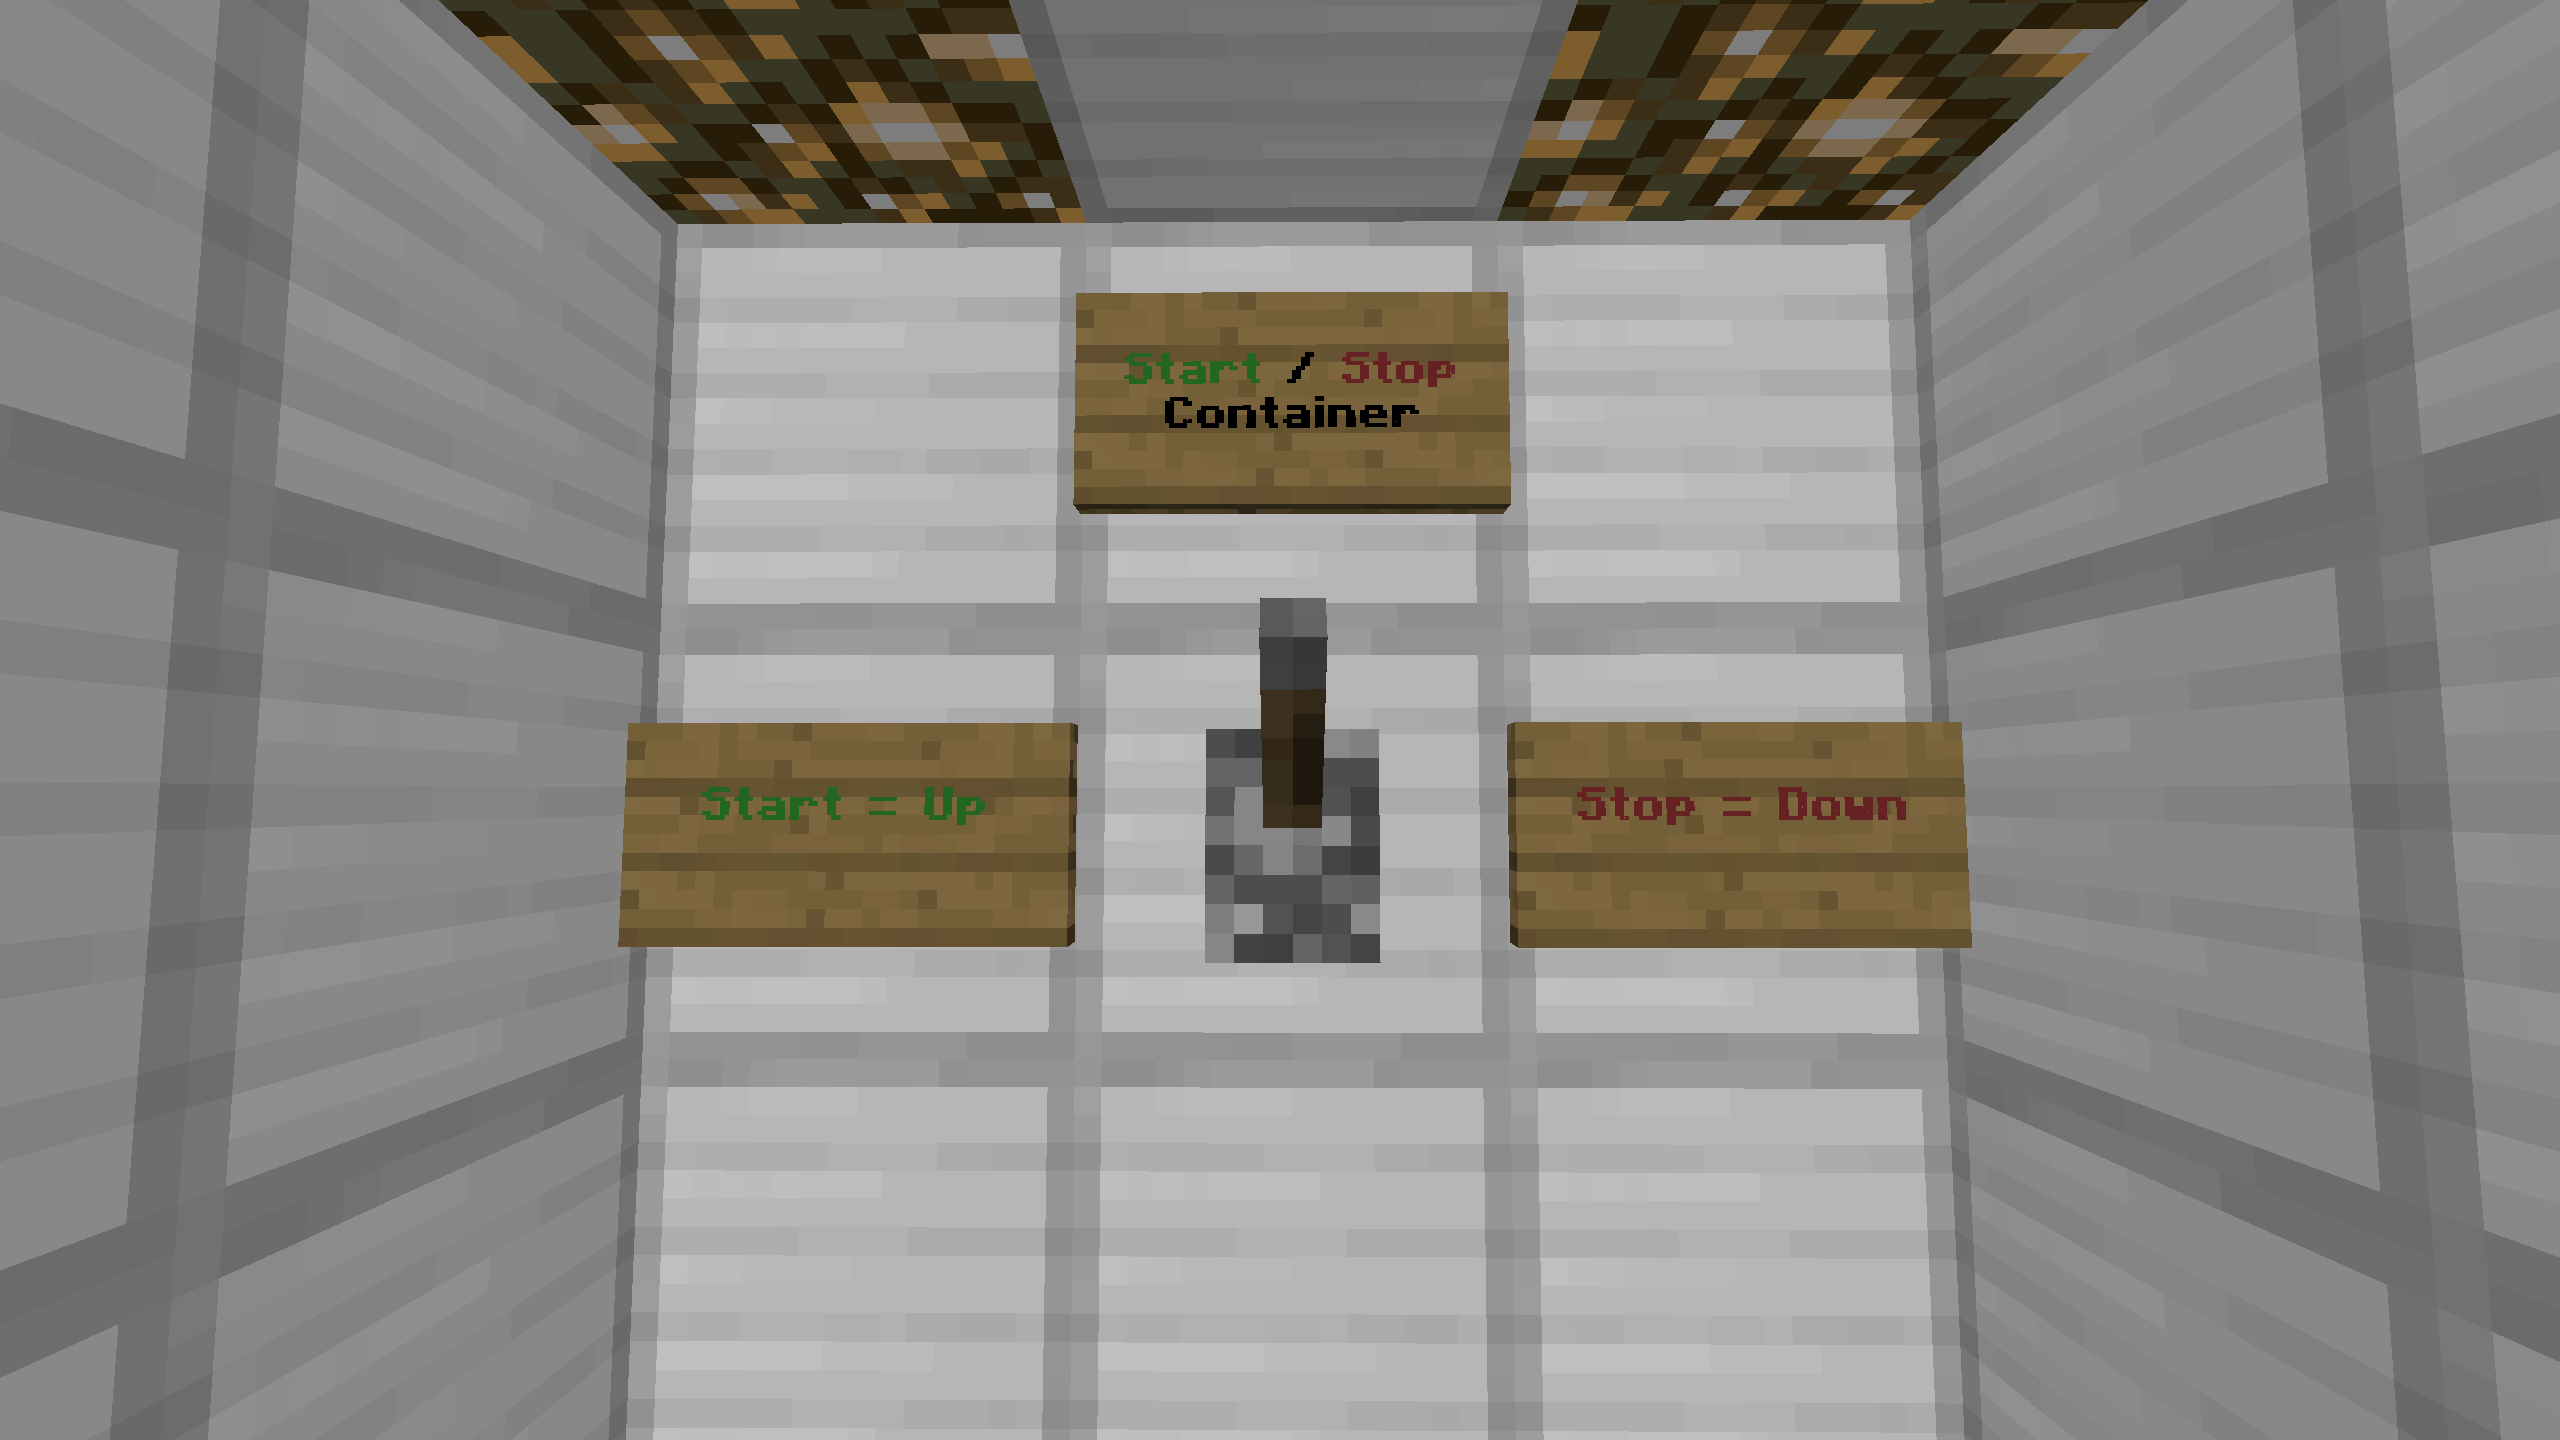
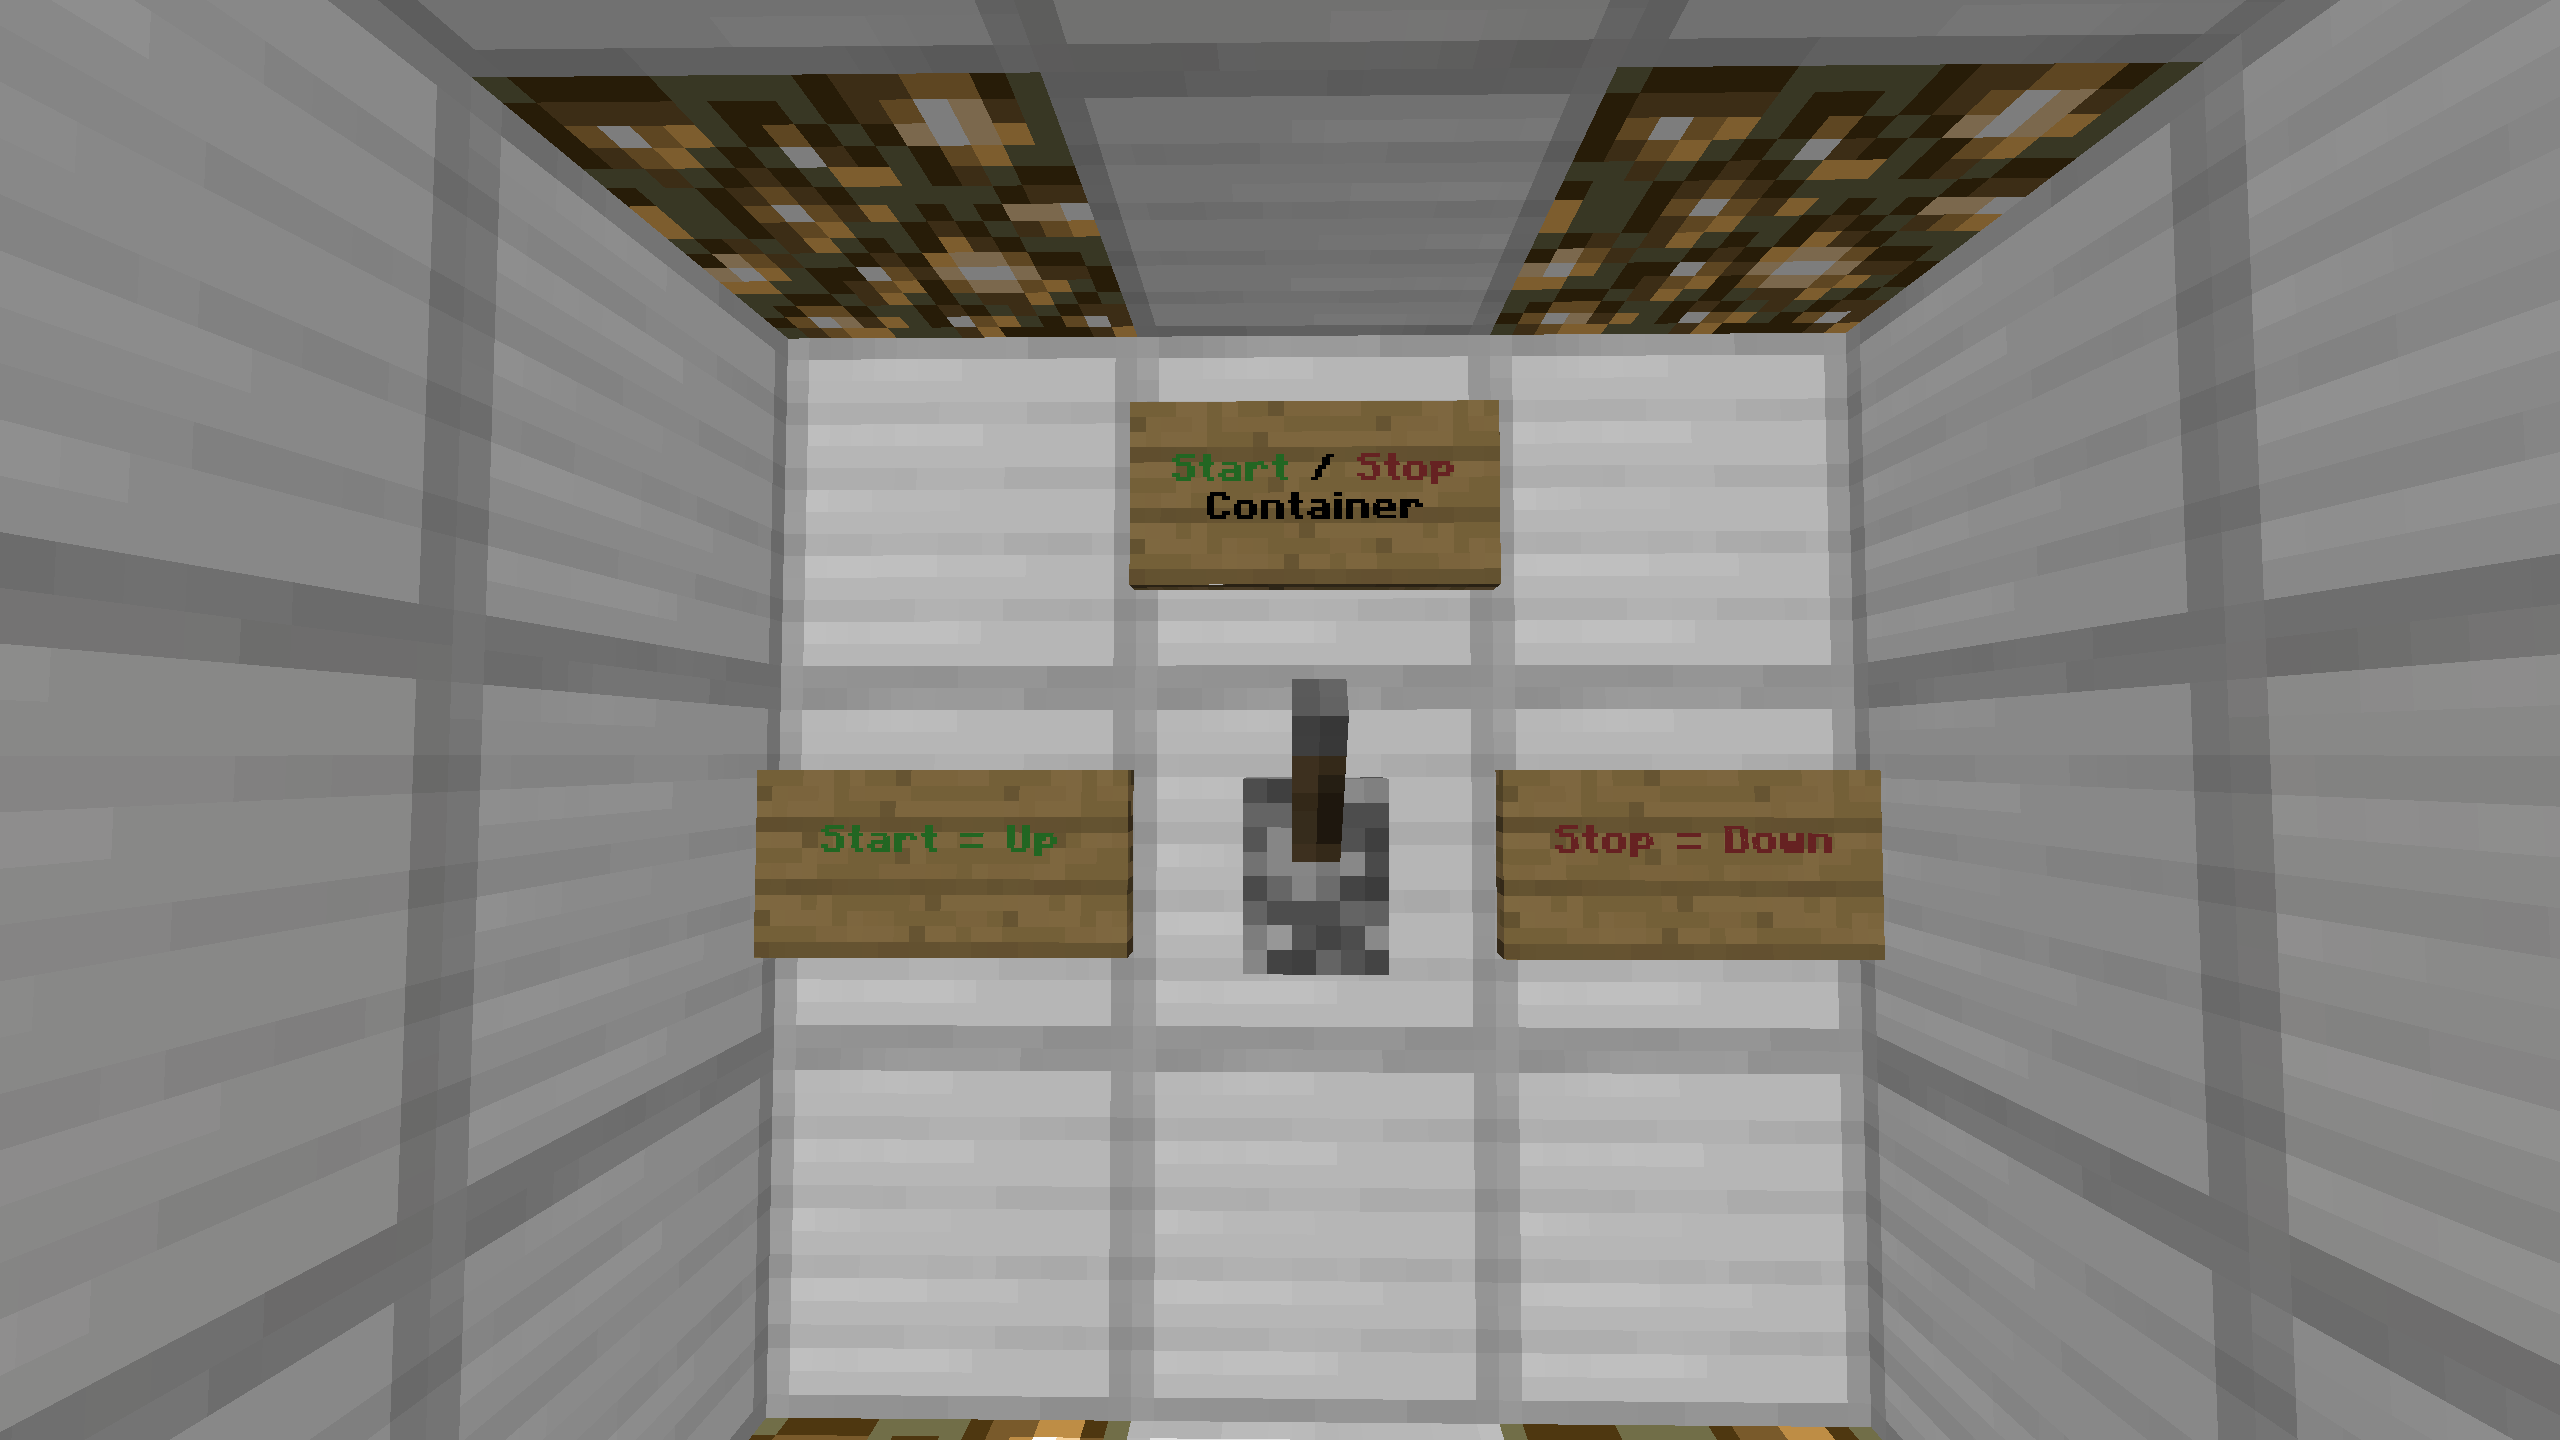
Added name and image signs to containers, added temporary /docker build_containers command to build a row of currently running containers

diff --git a/src/src/main/java/org/redfrog404/mobycraft/DockerCommands.java b/src/src/main/java/org/redfrog404/mobycraft/DockerCommands.java
@@ -26,7 +26,7 @@ public class DockerCommands implements ICommand {
 	private List aliases;
 
 	Map<String, Integer> argNumbers = new HashMap<String, Integer>();
-	
+
 	Map<String, String> helpMessages = new HashMap<String, String>();
 
 	ICommandSender sender;
@@ -36,20 +36,23 @@ public class DockerCommands implements ICommand {
 
 	String[] args;
 
+	List<BoxContainer> boxContainers = new ArrayList<BoxContainer>();
+
 	public DockerCommands() {
 		this.aliases = new ArrayList();
 		this.aliases.add("docker");
-		
+
 		argNumbers.put("help", 0);
 		argNumbers.put("ps", 1);
 		argNumbers.put("path", 2);
-		argNumbers.put("container", 3);
-		
+		//TODO Remove after adding automatic building when player joins game
+		argNumbers.put("build_containers", 3);
+
 		helpMessages.put("help", "Brings up this help page");
-		helpMessages.put("ps",
-				"Lists all of your containers and some important information about them");
-		helpMessages.put("path <path>",
-				"Sets the Docker path to <path>");
+		helpMessages
+				.put("ps",
+						"Lists all of your containers and some important information about them");
+		helpMessages.put("path <path>", "Sets the Docker path to <path>");
 	}
 
 	@Override
@@ -105,9 +108,9 @@ public class DockerCommands implements ICommand {
 				path();
 				break;
 			case 3:
-				Moby.builder.container(sender.getEntityWorld(), sender.getPosition(), Blocks.iron_block);
+				refreshAndBuildContainers(sender.getPosition());
 				break;
-			} 
+			}
 		} catch (Exception e) {
 
 			if (e instanceof UnsupportedSchemeException && commandNumber == 2) {
@@ -171,15 +174,16 @@ public class DockerCommands implements ICommand {
 	private void help() {
 		sendMessage(EnumChatFormatting.BLUE + "" + EnumChatFormatting.BOLD
 				+ "============== Docker Help ==============");
-		
-		for (int help = 0 ; help < helpMessages.size() ; help++) {
-			sendHelpMessage(helpMessages.keySet().toArray()[help].toString(), helpMessages.get(helpMessages.keySet().toArray()[help]));
+
+		for (int help = 0; help < helpMessages.size(); help++) {
+			sendHelpMessage(helpMessages.keySet().toArray()[help].toString(),
+					helpMessages.get(helpMessages.keySet().toArray()[help]));
 		}
 	}
 
 	private void ps() {
-		
-		sendMessage(EnumChatFormatting.GOLD + "Loading...");
+
+		sendFeedbackMessage("Loading...");
 
 		DockerClient dockerClient;
 		DockerClientConfig dockerConfig = DockerClientConfig
@@ -215,7 +219,7 @@ public class DockerCommands implements ICommand {
 					+ EnumChatFormatting.GOLD + container.getImage()
 					+ EnumChatFormatting.RESET + ", "
 					+ EnumChatFormatting.GREEN
-					+ container.getId().subSequence(0, 12);
+					+ container.getId().substring(0, 12);
 			sendMessage(message);
 		}
 	}
@@ -229,5 +233,54 @@ public class DockerCommands implements ICommand {
 		dockerPath.setValue(args[1]);
 		Moby.config.save();
 		sendConfirmMessage("Docker path set to \"" + args[1] + "\"");
+	}
+
+	public void refreshContainers(BlockPos pos) {
+		DockerClient dockerClient;
+		DockerClientConfig dockerConfig = DockerClientConfig
+				.createDefaultConfigBuilder()
+				.withUri("https://192.168.99.100:2376")
+				.withDockerCertPath(dockerPath.getString()).build();
+		dockerClient = DockerClientBuilder.getInstance(dockerConfig).build();
+
+		List<Container> containers = dockerClient.listContainersCmd().exec();
+		for (Container container : containers) {
+			boxContainers.add(new BoxContainer(pos, container.getId()));
+			pos = pos.add(6, 0, 0);
+		}
+	}
+
+	public void buildContainers() {
+		DockerClient dockerClient;
+		DockerClientConfig dockerConfig = DockerClientConfig
+				.createDefaultConfigBuilder()
+				.withUri("https://192.168.99.100:2376")
+				.withDockerCertPath(dockerPath.getString()).build();
+		dockerClient = DockerClientBuilder.getInstance(dockerConfig).build();
+		
+		for (BoxContainer boxContainer : boxContainers) {
+			String containerName = "";
+			String containerImage = "";
+			
+			List<Container> containers = dockerClient.listContainersCmd().exec();
+			for (Container container : containers) {
+				if (container.getId().equals(boxContainer.getID())){
+					containerName = container.getNames()[0];
+					containerImage = container.getImage();
+				}
+			}
+			
+			if (!containerName.equals("")) {
+				Moby.builder.container(sender.getEntityWorld(), boxContainer.getPosition(), Blocks.iron_block, containerName, containerImage);
+			}
+		}
+	}
+	
+	public void refreshAndBuildContainers(BlockPos pos){
+		sendFeedbackMessage("Getting containers...");
+		refreshContainers(pos);
+		sendFeedbackMessage("Building containers...");
+		buildContainers();
+		sendFeedbackMessage("Done!");
 	}
 }

diff --git a/src/src/main/java/org/redfrog404/mobycraft/Builder.java b/src/src/main/java/org/redfrog404/mobycraft/Builder.java
@@ -68,7 +68,8 @@ public class Builder {
 		fill(world, start.add(x1, y1, z1), end.add(x2, y2, z2), Blocks.air);
 	}
 
-	public void container(World world, BlockPos start, Block material) {
+	public void container(World world, BlockPos start, Block material,
+			String containerName, String containerImage) {
 		start = start.add(-2, 0, 1);
 		room(world, start, start.add(4, 4, 4), Blocks.iron_block);
 
@@ -95,9 +96,8 @@ public class Builder {
 				2, 3, 3)));
 		sign.signText[1] = new ChatComponentText(EnumChatFormatting.GREEN + ""
 				+ EnumChatFormatting.BOLD + "Start" + EnumChatFormatting.BLACK
-				+ "" + EnumChatFormatting.BOLD + " / "
-				+ EnumChatFormatting.RED + "" + EnumChatFormatting.BOLD
-				+ "Stop");
+				+ "" + EnumChatFormatting.BOLD + " / " + EnumChatFormatting.RED
+				+ "" + EnumChatFormatting.BOLD + "Stop");
 		sign.signText[2] = new ChatComponentText(EnumChatFormatting.BLACK + ""
 				+ EnumChatFormatting.BOLD + "Container");
 		((TileEntitySign) world.getTileEntity(start.add(3, 2, 3))).signText[1] = new ChatComponentText(
@@ -106,6 +106,35 @@ public class Builder {
 		((TileEntitySign) world.getTileEntity(start.add(1, 2, 3))).signText[1] = new ChatComponentText(
 				EnumChatFormatting.RED + "" + EnumChatFormatting.BOLD
 						+ "Stop = Down");
+
+		world.setBlockState(start.add(4, 1, -1), wallSign);
+		sign = ((TileEntitySign) world.getTileEntity(start.add(4, 1, -1)));
+		sign.signText[0] = new ChatComponentText(EnumChatFormatting.BOLD
+				+ "Name:");
+		if (containerName.length() < 14) {
+			sign.signText[1] = new ChatComponentText(containerName);
+		} else if (containerName.length() < 27) {
+			sign.signText[1] = new ChatComponentText(containerName.substring(0, 13));
+			sign.signText[2] = new ChatComponentText(containerName.substring(13, containerName.length()));
+		} else {
+			sign.signText[1] = new ChatComponentText(containerName.substring(0, 13));
+			sign.signText[1] = new ChatComponentText(containerName.substring(13, 26));
+			sign.signText[2] = new ChatComponentText(containerName.substring(26, containerName.length()));
+		}
+		
+		world.setBlockState(start.add(3, 1, -1), wallSign);
+		sign = ((TileEntitySign) world.getTileEntity(start.add(3, 1, -1)));
+		sign.signText[0] = new ChatComponentText(EnumChatFormatting.BOLD + "Image:");
+		if (containerImage.length() < 14) {
+			sign.signText[1] = new ChatComponentText(containerImage);
+		} else if (containerImage.length() < 27) {
+			sign.signText[1] = new ChatComponentText(containerImage.substring(0, 13));
+			sign.signText[2] = new ChatComponentText(containerImage.substring(13, containerImage.length()));
+		} else {
+			sign.signText[1] = new ChatComponentText(containerImage.substring(0, 13));
+			sign.signText[1] = new ChatComponentText(containerImage.substring(13, 26));
+			sign.signText[2] = new ChatComponentText(containerImage.substring(26, containerImage.length()));
+		}
 
 	}
 

diff --git a/src/src/main/java/org/redfrog404/mobycraft/BoxContainer.java b/src/src/main/java/org/redfrog404/mobycraft/BoxContainer.java
@@ -1,0 +1,35 @@
+package org.redfrog404.mobycraft;
+
+import net.minecraft.util.BlockPos;
+
+public class BoxContainer {
+	
+	private BlockPos position;
+	private String ID;
+	
+	public BoxContainer(BlockPos position, String ID) {
+		this.position = position;
+		this.ID = ID;
+	}
+	
+	public BlockPos getPosition(){
+		return position;
+	}
+	
+	public String getID(){
+		return ID;
+	}
+	
+	public String getShortID(){
+		return ID.substring(0, 12);
+	}
+	
+	public void setPosition(BlockPos newPos) {
+		position = newPos;
+	}
+	
+	public void setID(String newID) {
+		ID = newID;
+	}
+
+}
